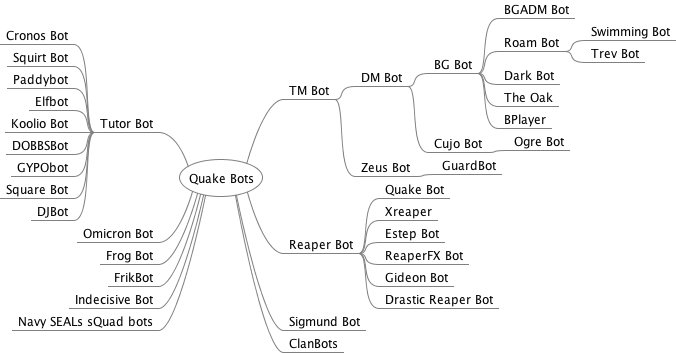
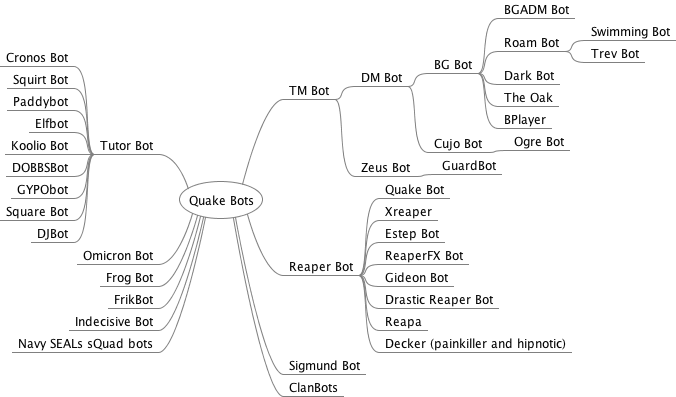
added Reapa

diff --git a/mindmap/QuakeBots.mm b/mindmap/QuakeBots.mm
@@ -35,13 +35,15 @@
 <node CREATED="1622514212533" ID="ID_723841812" MODIFIED="1622514703771" POSITION="left" TEXT="Omicron Bot"/>
 <node CREATED="1622514920508" ID="ID_432501820" MODIFIED="1622514924237" POSITION="left" TEXT="Frog Bot"/>
 <node CREATED="1622514879263" ID="ID_981472223" MODIFIED="1622514883843" POSITION="left" TEXT="FrikBot"/>
-<node CREATED="1622514191836" ID="ID_937776968" MODIFIED="1622594495842" POSITION="right" TEXT="Reaper Bot">
+<node CREATED="1622514191836" ID="ID_937776968" MODIFIED="1622683898961" POSITION="right" TEXT="Reaper Bot">
 <node CREATED="1622591700948" ID="ID_1772656642" MODIFIED="1622679969616" TEXT="Quake Bot"/>
 <node CREATED="1622593071377" ID="ID_561622825" MODIFIED="1622593075037" TEXT="Xreaper"/>
 <node CREATED="1622593594030" ID="ID_97271700" MODIFIED="1622593595644" TEXT="Estep Bot"/>
 <node CREATED="1622594033428" ID="ID_466163906" MODIFIED="1622594034554" TEXT="ReaperFX Bot"/>
 <node CREATED="1622594496177" ID="ID_1512770589" MODIFIED="1622594497250" TEXT="Gideon Bot"/>
 <node CREATED="1622673183629" ID="ID_236348246" MODIFIED="1622673190218" TEXT="Drastic Reaper Bot"/>
+<node CREATED="1622683900997" ID="ID_269789052" MODIFIED="1622683902962" TEXT="Reapa"/>
+<node CREATED="1622683913824" ID="ID_329641328" MODIFIED="1622683927792" TEXT="Decker (painkiller and hipnotic)"/>
 </node>
 <node CREATED="1622673974992" ID="ID_836172168" MODIFIED="1622673977254" POSITION="right" TEXT="Sigmund Bot"/>
 <node CREATED="1622675037053" ID="ID_1770647602" MODIFIED="1622675039068" POSITION="left" TEXT="Indecisive Bot"/>

diff --git a/README.md b/README.md
@@ -53,6 +53,7 @@ ClanBots | "slug" | ClanV0.7HMan.zip | No
 GuardBot | Peter van Wingerden | [grdbot23.zip](bin/grdbot23.zip) | Yes
 Navy SEALs sQuad bots | William van der Sterren | [nseal201.zip](bin/nseal201.zip) | Yes
 DJBot | "DJ" | ? | No
+Reapa | Terry Hendrix II aka "Mongoose" | ? | No
 
 
 
